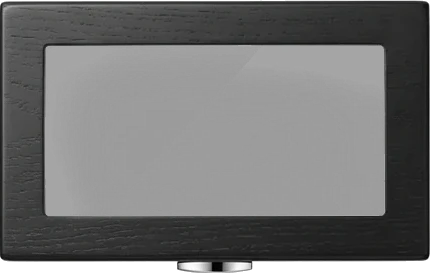
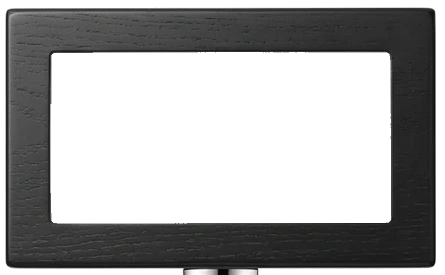
Caja de relojes: fotos nuevas (cuerpo, tapa con vidrio transparente, relojes en reposo y de frente) y animacion fija con el scroll

diff --git a/css/catalogo/estuche.css b/css/catalogo/estuche.css
@@ -1,89 +1,91 @@
   /* === CAJA DE RELOJES (debajo del carrusel) ===
-     La seccion queda fija (sticky) mientras se hace scroll; js/catalogo/estuche.js calcula el avance y pone:
-       --i  aparicion de la caja (0-1)      --l  apertura de la tapa (0-1)
-       --w0 --w1 --w2  aparicion de cada reloj (0-1)
-     Capas dentro de .cj-caja (mismo tamano que la foto del cuerpo, 805x427):
-       1 cuerpo · 2 sombra de la tapa · 3 relojes · 4 pared frontal · 5 tapa (2 caras) · 6 etiqueta
-     Para afinar a ojo, cambia estas variables: */
+     La seccion queda fija (sticky) mientras se hace scroll; js/catalogo/estuche.js pone en #estuche:
+       --l  apertura de la tapa (0-1)    --w1 --w2 --w3  aparicion de cada reloj en reposo (0-1)    --y  entrada (px)
+     Capas dentro de .cj-caja (mismo tamano que la foto del cuerpo, 1340x860):
+       1 cuerpo (cojines vacios) · 2 relojes en reposo · 3 pared frontal · 5 tapa · 6 reloj levantado · 7 zonas tactiles
+     Variables para afinar a ojo: */
   #estuche{
-    --lid-closed-angle:61deg;   /* tapa cerrada: acostada sobre la caja, con la misma perspectiva de la foto */
-    --lid-open-angle:166deg;    /* tapa abierta: ~105 grados desde cerrada, inclinada hacia atras */
-    --persp:630cqw;             /* distancia de la camara (en anchos de la caja) */
-    --watch-tilt:58deg;         /* relojes acostados sobre los cojines */
-    --watch-hover-tilt:18deg;   /* al levantarlo se inclina hacia quien mira */
-    --watch-lift:-16%;          /* cuanto sube al levantarlo (de su propio alto) */
-    --watch-size:22%;           /* ancho del cojin (zona que se toca) */
-    --watch-img:255%;           /* tamano de la foto del reloj respecto al cojin */
-    --r0-x:21.4%; --r0-y:40.5%; /* centro de cada reloj sobre su cojin */
-    --r1-x:49.9%; --r1-y:40.5%;
-    --r2-x:79.4%; --r2-y:40.5%;
-    --largo:190vh;              /* recorrido de scroll mientras la caja queda fija */
-    --i:0; --l:0; --w0:0; --w1:0; --w2:0;
-    position:relative;height:var(--largo);background:#fff;
+    --lid-closed-angle:44deg;   /* tapa cerrada: acostada sobre la caja (camara a ~30 grados) */
+    --lid-open-angle:150deg;    /* tapa abierta: pasa la vertical y se inclina un poco hacia atras */
+    --persp:700cqw;             /* distancia de la camara, en anchos de la caja (perspective) */
+    --watch-tilt:55deg;         /* el reloj levantado parte acostado... */
+    --watch-lift:-15%;          /* ...y sube esto (de su propio alto) mientras gira hacia quien mira */
+    --watch-h:50%;              /* alto del reloj levantado (del alto de la caja) */
+    --w1-x:20%;   --w1-y:42%; --w1-scale:1;      /* izquierda */
+    --w2-x:50%;   --w2-y:39%; --w2-scale:1.12;   /* centro */
+    --w3-x:80%;   --w3-y:45%; --w3-scale:.92;    /* derecha */
+    --l:0; --w1:0; --w2:0; --w3:0; --y:0px;
+    position:relative;background:#fff;
+    height:calc(100vh + 210vh);   /* 180vh de animacion + 30vh con la caja abierta y quieta */
   }
   body.vista-catalogo #estuche{display:none;}
-  .cj-fijo{position:sticky;top:var(--header-h,90px);height:calc(100vh - var(--header-h,90px));height:calc(100svh - var(--header-h,90px));display:flex;flex-direction:column;align-items:center;justify-content:center;padding:0 16px;overflow:hidden;}
-  .cj-titulo{font-family:var(--font-titulo);font-size:var(--fs-titulo);font-weight:800;letter-spacing:.01em;line-height:1.1;text-transform:uppercase;color:var(--black);text-align:center;margin-bottom:clamp(10px,2.2vh,26px);}
+  .cj-fijo{position:sticky;top:var(--header-h,90px);height:calc(100vh - var(--header-h,90px));height:calc(100svh - var(--header-h,90px));display:flex;flex-direction:column;align-items:center;justify-content:center;padding:0 16px;}
+  .cj-titulo{font-family:var(--font-titulo);font-size:var(--fs-titulo);font-weight:800;letter-spacing:.01em;line-height:1.1;text-transform:uppercase;color:var(--black);text-align:center;margin-bottom:clamp(6px,1.5vh,18px);}
   @media (min-width:821px){ .cj-titulo{font-size:clamp(22px,1.9vw,30px);} }
 
-  /* el marco reserva arriba el espacio de la tapa abierta (asi no hay saltos de diseno) */
-  .cj-marco{width:min(100%,700px,calc((100svh - var(--header-h,90px) - 100px) * .86));container-type:inline-size;
-    opacity:var(--i);transform:scale(calc((.94 + .06 * var(--i)) * (.975 + .025 * var(--l))));}
-  .cj-marco::before{content:'';display:block;padding-top:58%;}
-  .cj-caja{position:relative;aspect-ratio:805/427;perspective:var(--persp);perspective-origin:50% 30%;}
-  .cj-caja::after{content:'';position:absolute;left:3%;right:3%;bottom:-5%;height:10%;z-index:0;background:radial-gradient(ellipse at center,rgba(0,0,0,.30) 0%,rgba(0,0,0,0) 70%);}
-  .cj-cuerpo,.cj-frente{position:absolute;inset:0;width:100%;height:100%;display:block;user-select:none;-webkit-user-drag:none;pointer-events:none;}
+  /* el tamano se calcula con la tapa ABIERTA (el ::before reserva su alto), asi nada se corta y no hay saltos */
+  .cj-marco{width:min(100%,760px,calc((100svh - var(--header-h,90px) - 90px) * .86));container-type:inline-size;transform:translateY(var(--y));}
+  .cj-marco::before{content:'';display:block;padding-top:52%;}
+  .cj-caja{position:relative;aspect-ratio:1340/860;perspective:var(--persp);perspective-origin:50% 35%;}
+  .cj-caja img{display:block;user-select:none;-webkit-user-drag:none;}
+  .cj-cuerpo,.cj-frente{position:absolute;inset:0;width:100%;height:100%;pointer-events:none;}
   .cj-cuerpo{z-index:1;}
-  .cj-sombra{position:absolute;z-index:2;left:6%;right:6%;top:5%;height:50%;background:#000;opacity:calc((1 - var(--l)) * .55);pointer-events:none;}
-  .cj-relojes{position:absolute;inset:0;z-index:3;transform-style:preserve-3d;}
-  .cj-frente{z-index:4;}
+  .cj-sombra{position:absolute;z-index:2;left:4%;right:4%;top:9%;height:62%;background:radial-gradient(ellipse at 50% 40%,rgba(0,0,0,.65),rgba(0,0,0,.4));opacity:calc((1 - var(--l)) * .8);pointer-events:none;}
+  /* 2: reloj en reposo (recorte del compartimento con borde difuminado) */
+  .cj-reposo{position:absolute;z-index:2;pointer-events:none;opacity:var(--w);transform:translateY(calc((1 - var(--w)) * 4%));}
+  .cj-reposo[data-i="1"]{--w:var(--w1);left:4.179%;top:10%;width:30.597%;height:59.767%;}
+  .cj-reposo[data-i="2"]{--w:var(--w2);left:34.776%;top:10%;width:28.657%;height:59.767%;}
+  .cj-reposo[data-i="3"]{--w:var(--w3);left:63.433%;top:10%;width:28.507%;height:59.767%;}
+  #estuche.abierta .cj-reposo{transition:opacity .35s var(--ease),filter .35s var(--ease);}
+  .cj-caja .cj-reposo.fuera{opacity:0;}
+  .cj-frente{z-index:3;}
 
-  /* tapa: dos caras espalda con espalda; gira sobre la linea de las bisagras (borde trasero) */
-  .cj-tapa{position:absolute;z-index:5;left:5.2%;width:91.6%;top:4.2%;aspect-ratio:431/261;pointer-events:none;transform-origin:50% 0;transform-style:preserve-3d;
+  /* 5: tapa. Un solo elemento 3D con dos caras espalda con espalda; gira sobre la linea de las bisagras */
+  .cj-tapa{position:absolute;z-index:5;left:2.76%;width:94.5%;top:8.84%;aspect-ratio:430/260;pointer-events:none;transform-origin:50% 0;transform-style:preserve-3d;
     transform:rotateX(calc(var(--lid-closed-angle) + (var(--lid-open-angle) - var(--lid-closed-angle)) * var(--l)));}
-  .cj-cara{position:absolute;left:0;width:100%;height:auto;display:block;backface-visibility:hidden;-webkit-backface-visibility:hidden;user-select:none;-webkit-user-drag:none;}
-  .cj-cara.ext{top:0;}
-  .cj-cara.int{top:-4.21%;transform:rotateX(180deg) translateZ(1px);}
+  .cj-cara{position:absolute;inset:0;backface-visibility:hidden;-webkit-backface-visibility:hidden;}
+  .cj-cara img{position:absolute;max-width:none;height:auto;}
+  .cj-cara.ext img{left:-1.163%;top:-3.077%;width:103.488%;}
+  .cj-cara.int{transform:rotateX(180deg);}
+  .cj-cara.int img{left:-.696%;top:-3.053%;width:100.928%;}
+  /* brillo diagonal muy suave sobre el vidrio (el vidrio de la imagen es transparente) */
+  .cj-vidrio{position:absolute;pointer-events:none;background:linear-gradient(135deg,rgba(255,255,255,.12),rgba(255,255,255,0) 45%);}
+  .cj-cara.ext .cj-vidrio{left:10.7%;right:10.5%;top:16.9%;bottom:17.7%;}
+  .cj-cara.int .cj-vidrio{left:14.4%;right:14.4%;top:22.1%;bottom:20.6%;}
 
-  /* relojes: acostados en su cojin; aparecen con --wN y se levantan al pasar el cursor o tocarlos */
-  .cj-reloj{--w:var(--w0);--t:var(--watch-tilt);--sube:calc((1 - var(--w)) * 10%);--s:1;
-    position:absolute;left:var(--x);top:var(--y);width:var(--watch-size);aspect-ratio:1/1.15;padding:0;margin:0;border:0;background:none;cursor:pointer;-webkit-tap-highlight-color:transparent;
-    opacity:var(--w);transform:translate(-50%,-50%) translateY(var(--sube)) rotateX(var(--t)) scale(var(--s));}
-  .cj-reloj[data-i="0"]{--w:var(--w0);--x:var(--r0-x);--y:var(--r0-y);}
-  .cj-reloj[data-i="1"]{--w:var(--w1);--x:var(--r1-x);--y:var(--r1-y);}
-  .cj-reloj[data-i="2"]{--w:var(--w2);--x:var(--r2-x);--y:var(--r2-y);}
-  .cj-reloj img{position:absolute;left:50%;top:50%;width:var(--watch-img);height:auto;aspect-ratio:1/1;transform:translate(-50%,-50%);pointer-events:none;user-select:none;-webkit-user-drag:none;
-    filter:drop-shadow(0 4px 3px rgba(0,0,0,.6));}
-  .cj-reloj.alzado,.cj-reloj:focus-visible{--sube:var(--watch-lift);--t:var(--watch-hover-tilt);--s:1.05;z-index:2;}
-  .cj-reloj.alzado img,.cj-reloj:focus-visible img{filter:drop-shadow(0 22px 16px rgba(0,0,0,.45));}
-  .cj-reloj:focus-visible{outline:none;}
-  .cj-reloj:focus-visible::after{content:'';position:absolute;left:8%;right:8%;bottom:-8%;height:2px;background:#fff;}
-  @media (hover:hover){
-    .cj-reloj:hover{--sube:var(--watch-lift);--t:var(--watch-hover-tilt);--s:1.05;z-index:2;}
-    .cj-reloj:hover img{filter:drop-shadow(0 22px 16px rgba(0,0,0,.45));}
-    .cj-relojes:has(.cj-reloj:hover) .cj-reloj:not(:hover) img{filter:drop-shadow(0 4px 3px rgba(0,0,0,.6)) brightness(.6);}
-  }
-  .cj-relojes:has(.cj-reloj.alzado) .cj-reloj:not(.alzado):not(:hover) img{filter:drop-shadow(0 4px 3px rgba(0,0,0,.6)) brightness(.6);}
-  /* las transiciones del levantar solo cuando la caja ya esta abierta (durante el scroll se mueve cuadro a cuadro) */
-  #estuche.abierta .cj-reloj{transition:transform .45s cubic-bezier(.34,1.45,.64,1);}
-  #estuche.abierta .cj-reloj img{transition:filter .4s var(--ease);}
-  #estuche.animando .cj-tapa,#estuche.animando .cj-reloj,#estuche.animando .cj-marco{will-change:transform,opacity;}
+  /* 6: reloj levantado (foto de frente sin fondo). Parte acostado e invisible; al activarse sube y gira hacia quien mira */
+  .cj-alzado{position:absolute;z-index:6;left:var(--x);top:var(--yy);height:calc(var(--watch-h) * var(--sc));width:auto;max-width:none;pointer-events:none;opacity:0;
+    transform:translate(-50%,-50%) rotateX(var(--watch-tilt)) scale(.92);filter:drop-shadow(0 18px 18px rgba(0,0,0,.45));
+    transition:opacity .3s var(--ease),transform .45s cubic-bezier(.34,1.4,.64,1);}
+  .cj-alzado[data-i="1"]{--x:var(--w1-x);--yy:var(--w1-y);--sc:var(--w1-scale);}
+  .cj-alzado[data-i="2"]{--x:var(--w2-x);--yy:var(--w2-y);--sc:var(--w2-scale);}
+  .cj-alzado[data-i="3"]{--x:var(--w3-x);--yy:var(--w3-y);--sc:var(--w3-scale);}
+  .cj-alzado.on{opacity:1;transform:translate(-50%,-50%) translateY(var(--watch-lift)) rotateX(0deg) scale(1.05);}
+  /* los otros relojes se oscurecen un poco */
+  .cj-caja.activa .cj-reposo:not(.fuera){filter:brightness(.6);}
 
-  .cj-etiqueta{position:absolute;z-index:6;left:var(--ex,50%);top:-11%;transform:translate(-50%,6px);opacity:0;pointer-events:none;white-space:nowrap;text-align:center;
-    background:#fff;padding:5px 12px;border-radius:999px;box-shadow:0 4px 14px rgba(0,0,0,.12);transition:opacity .25s var(--ease),transform .25s var(--ease);}
+  /* 7: zonas que se tocan (una por compartimento), por encima de todo; solo activas con la caja abierta */
+  .cj-zona{position:absolute;z-index:7;top:12%;height:60%;padding:0;margin:0;border:0;background:none;cursor:pointer;-webkit-tap-highlight-color:transparent;pointer-events:none;border-radius:8px;}
+  #estuche.abierta .cj-zona{pointer-events:auto;}
+  .cj-zona[data-i="1"]{left:5%;width:29%;}
+  .cj-zona[data-i="2"]{left:35.5%;width:27.5%;}
+  .cj-zona[data-i="3"]{left:64%;width:27%;}
+  .cj-zona:focus-visible{outline:2px solid #fff;outline-offset:-6px;}
+
+  .cj-etiqueta{position:absolute;z-index:8;left:var(--ex,50%);top:-4%;transform:translate(-50%,6px);opacity:0;pointer-events:none;white-space:nowrap;text-align:center;
+    background:#fff;padding:5px 12px;border-radius:999px;box-shadow:0 4px 14px rgba(0,0,0,.14);transition:opacity .25s var(--ease),transform .25s var(--ease);}
   .cj-etiqueta.on{opacity:1;transform:translate(-50%,0);}
   .cj-etiqueta .n{display:block;font-size:var(--fs-etiqueta);font-weight:600;letter-spacing:.01em;text-transform:uppercase;color:var(--black);line-height:1.3;}
   .cj-etiqueta .d{display:block;font-size:11px;color:var(--gris-texto);line-height:1.3;}
 
-  @media (max-width:820px){ #estuche{--largo:160vh;} }
-  @media (max-width:560px){ #estuche{--largo:150vh;} .cj-etiqueta{top:-13%;} }
+  #estuche.animando .cj-tapa,#estuche.animando .cj-reposo,#estuche.animando .cj-marco{will-change:transform,opacity;}
+  @media (max-width:820px){ #estuche{height:calc(100vh + 180vh);} }
+  @media (max-width:560px){ #estuche{height:calc(100vh + 160vh);} .cj-etiqueta{top:-7%;} }
 
   /* sin animacion (movimiento reducido, sin 3D o si falla una imagen): caja abierta y quieta */
   #estuche.estatica{height:auto;padding:clamp(34px,4vw,64px) 0;}
   #estuche.estatica .cj-fijo{position:static;height:auto;}
-  #estuche.estatica .cj-marco{width:min(100%,700px);}
+  #estuche.estatica .cj-marco{width:min(100%,760px);}
   #estuche.sin3d .cj-tapa,#estuche.sin3d .cj-sombra{display:none;}
-  #estuche.sin3d .cj-reloj{--t:0deg;}
-  @media (prefers-reduced-motion:reduce){ #estuche .cj-reloj,#estuche .cj-reloj img{transition-duration:.01s !important;} }
-  /* ya abierta (pasado el canto), la tapa queda detras de la caja para que los relojes levantados pasen por delante */
-  .cj-caja.tapa-atras .cj-tapa{z-index:0;}
+  #estuche.sin3d .cj-marco::before{padding-top:0;}
+  @media (prefers-reduced-motion:reduce){ #estuche .cj-alzado,#estuche .cj-reposo{transition-duration:.15s;} }

diff --git a/js/catalogo/estuche.js b/js/catalogo/estuche.js
@@ -1,75 +1,94 @@
 // =================== CAJA DE RELOJES (debajo del carrusel) ===================
 // Una caja de madera cerrada: al hacer scroll la seccion queda fija, la tapa gira en 3D sobre las bisagras
-// y aparecen los mismos relojes del carrusel (DEST_LOCAL) acostados en sus cojines.
-// Pasar el cursor (o tocar) un reloj lo levanta un poco y lo inclina hacia quien mira.
-// El avance va en variables CSS de #estuche (ver css/catalogo/estuche.css): --i, --l, --w0..--w2.
-import { _destEsc } from './ui.js';
-import { DEST_LOCAL } from './destacados.js';
+// y aparecen 3 relojes en reposo sobre sus cojines. Al pasar el cursor (o tocar) un reloj, su foto de frente
+// sube y gira hacia quien mira; con el reloj levantado, un segundo toque abre su enlace (si tiene).
+// El avance va en variables CSS de #estuche (ver css/catalogo/estuche.css): --l, --w1..--w3, --y.
+
+// Relojes de la caja, de izquierda a derecha. Edita aqui nombre, precio y enlace.
+// "enlace": direccion a la que lleva un segundo toque (vacio = solo se levanta/baja).
+var RELOJES_CAJA = [
+  { nombre: 'TechnoMarine', detalle: 'Cronógrafo bicolor, esfera azul', precio: '', enlace: '',
+    reposo: 'assets/watchbox/reposo-izq.webp', frontal: 'assets/watchbox/frontal-izq.webp' },
+  { nombre: 'Invicta', detalle: 'Cronógrafo dorado', precio: '', enlace: '',
+    reposo: 'assets/watchbox/reposo-cen.webp', frontal: 'assets/watchbox/frontal-cen.webp' },
+  { nombre: 'Invicta Speedway', detalle: 'Bicolor oro rosa, esfera negra', precio: '', enlace: '',
+    reposo: 'assets/watchbox/reposo-der.webp', frontal: 'assets/watchbox/frontal-der.webp' }
+];
 
 var sec = document.getElementById('estuche');
 var caja = document.getElementById('cj-caja');
-var box = document.getElementById('cj-relojes');
 var etiqueta = document.getElementById('cj-etiqueta');
-var relojes = DEST_LOCAL.filter(function(r){ return r.fotos && r.fotos[0]; }).slice(0, 3);
+var activo = 0;     // reloj levantado (1-3) o 0
 
 function lim(v){ return v < 0 ? 0 : v > 1 ? 1 : v; }
 function salida(t){ return 1 - Math.pow(1 - t, 3); }   // ease-out
+function esc(s){ return String(s == null ? '' : s).replace(/[&<>"']/g, function(c){ return { '&':'&amp;', '<':'&lt;', '>':'&gt;', '"':'&quot;', "'":'&#39;' }[c]; }); }
 
 // ---------- relojes ----------
-function renderRelojes(){
-  box.innerHTML = relojes.map(function(r, i){
-    var nombre = r.nombre + (r.detalle ? ' ' + r.detalle : '');
-    return '<button type="button" class="cj-reloj" data-i="' + i + '" aria-pressed="false" aria-label="' + _destEsc(nombre) + '">' +
-      '<img src="' + _destEsc(r.fotos[0]) + '" alt="" loading="lazy" decoding="async" draggable="false"></button>';
-  }).join('');
+function render(){
+  var h = '';
+  RELOJES_CAJA.forEach(function(r, k){
+    var i = k + 1;
+    h += '<img class="cj-reposo" data-i="' + i + '" src="' + esc(r.reposo) + '" alt="" loading="lazy" decoding="async" draggable="false">';
+    h += '<img class="cj-alzado" data-i="' + i + '" src="' + esc(r.frontal) + '" alt="" loading="lazy" decoding="async" draggable="false">';
+    h += '<button type="button" class="cj-zona" data-i="' + i + '" aria-pressed="false" aria-label="' + esc(r.nombre + ' ' + r.detalle) + '"></button>';
+  });
+  caja.insertAdjacentHTML('beforeend', h);
 }
-function mostrarEtiqueta(i){
-  var r = relojes[i];
+function levantar(i){
+  activo = i || 0;
+  caja.classList.toggle('activa', !!activo);
+  caja.querySelectorAll('[data-i]').forEach(function(el){
+    var on = +el.dataset.i === activo;
+    if(el.classList.contains('cj-reposo')) el.classList.toggle('fuera', on);
+    if(el.classList.contains('cj-alzado')) el.classList.toggle('on', on);
+    if(el.classList.contains('cj-zona')) el.setAttribute('aria-pressed', on ? 'true' : 'false');
+  });
+  var r = RELOJES_CAJA[activo - 1];
   if(!r){ etiqueta.classList.remove('on'); return; }
-  etiqueta.innerHTML = '<span class="n">' + _destEsc(r.nombre) + '</span>' +
-    (r.detalle ? '<span class="d">' + _destEsc(r.detalle) + (r.precio ? ' · ' + _destEsc(r.precio) : '') + '</span>' : '');
-  etiqueta.style.setProperty('--ex', getComputedStyle(sec).getPropertyValue('--r' + i + '-x').trim() || '50%');
+  etiqueta.innerHTML = '<span class="n">' + esc(r.nombre) + '</span><span class="d">' + esc(r.detalle) + (r.precio ? ' · ' + esc(r.precio) : '') + '</span>';
+  etiqueta.style.setProperty('--ex', getComputedStyle(sec).getPropertyValue('--w' + activo + '-x').trim() || '50%');
   etiqueta.classList.add('on');
 }
-function alzar(btn){
-  box.querySelectorAll('.cj-reloj').forEach(function(b){
-    var on = b === btn; b.classList.toggle('alzado', on); b.setAttribute('aria-pressed', on ? 'true' : 'false');
-  });
-  mostrarEtiqueta(btn ? +btn.dataset.i : -1);
+function abrirEnlace(r){
+  if(!r || !r.enlace) return false;
+  if(/^https?:\/\//.test(r.enlace) && r.enlace.indexOf(location.origin) !== 0) window.open(r.enlace, '_blank', 'noopener');
+  else location.href = r.enlace;
+  return true;
 }
-function alzado(){ return box.querySelector('.cj-reloj.alzado'); }
 function eventos(){
-  // tocar / Enter / Espacio: levanta ese reloj; otra vez lo baja (solo uno a la vez)
-  box.addEventListener('click', function(e){
-    var b = e.target.closest('.cj-reloj'); if(!b) return;
-    alzar(b.classList.contains('alzado') ? null : b);
+  var conMouse = false;
+  caja.addEventListener('pointerdown', function(e){ conMouse = e.pointerType === 'mouse'; });
+  // tocar (o Enter/Espacio): levanta; tocar el levantado abre su enlace o lo baja
+  caja.addEventListener('click', function(e){
+    var z = e.target.closest('.cj-zona'); if(!z) return;
+    var i = +z.dataset.i;
+    if(activo === i){ if(!abrirEnlace(RELOJES_CAJA[i - 1]) && !conMouse) levantar(0); }
+    else levantar(i);
   });
+  // con mouse: levantar al pasar por encima y bajar al salir
+  caja.addEventListener('pointerover', function(e){
+    var z = e.target.closest('.cj-zona'); if(z && e.pointerType === 'mouse') levantar(+z.dataset.i);
+  });
+  caja.addEventListener('pointerout', function(e){
+    if(e.pointerType !== 'mouse') return;
+    var a = e.relatedTarget && e.relatedTarget.closest ? e.relatedTarget.closest('.cj-zona') : null;
+    if(!a) levantar(0);
+  });
+  caja.addEventListener('focusin', function(e){ var z = e.target.closest('.cj-zona'); if(z && z.matches(':focus-visible')) levantar(+z.dataset.i); });
+  caja.addEventListener('focusout', function(){ if(!caja.contains(document.activeElement)) levantar(0); });
   // tocar fuera de los relojes los baja
-  document.addEventListener('click', function(e){
-    if(alzado() && !e.target.closest('.cj-reloj')) alzar(null);
-  });
-  // con mouse, la etiqueta sigue al reloj bajo el cursor
-  box.addEventListener('pointerover', function(e){
-    var b = e.target.closest('.cj-reloj'); if(b && e.pointerType === 'mouse') mostrarEtiqueta(+b.dataset.i);
-  });
-  box.addEventListener('pointerout', function(e){
-    if(e.pointerType !== 'mouse' || (e.relatedTarget && e.relatedTarget.closest && e.relatedTarget.closest('.cj-reloj'))) return;
-    var a = alzado(); mostrarEtiqueta(a ? +a.dataset.i : -1);
-  });
-  box.addEventListener('focusin', function(e){ var b = e.target.closest('.cj-reloj'); if(b) mostrarEtiqueta(+b.dataset.i); });
-  box.addEventListener('focusout', function(){ var a = alzado(); mostrarEtiqueta(a ? +a.dataset.i : -1); });
+  document.addEventListener('click', function(e){ if(activo && !e.target.closest('.cj-zona')) levantar(0); });
 }
 
 // ---------- animacion segun el scroll ----------
-// 0-.15 aparece la caja cerrada · .15-.60 se abre la tapa · .60-.85 salen los relojes · .85-1 quieta
+// 0-.15 entra la caja cerrada · .15-.60 se abre la tapa · .60-.85 aparecen los relojes · .85-1 quieta
 function aplicar(p){
-  var l = salida(lim((p - .15) / .45));
-  sec.style.setProperty('--i', (.35 + .65 * lim(p / .15)).toFixed(3));
-  sec.style.setProperty('--l', l.toFixed(4));
-  for(var k = 0; k < 3; k++) sec.style.setProperty('--w' + k, salida(lim((p - .60 - k * .05) / .15)).toFixed(3));
-  caja.classList.toggle('tapa-atras', l > .5);
+  sec.style.setProperty('--y', ((1 - salida(lim(p / .15))) * 28).toFixed(1) + 'px');
+  sec.style.setProperty('--l', salida(lim((p - .15) / .45)).toFixed(4));
+  for(var k = 0; k < 3; k++) sec.style.setProperty('--w' + (k + 1), salida(lim((p - .60 - k * .06) / .13)).toFixed(3));
   sec.classList.toggle('abierta', p >= .85);
-  if(p < .6 && alzado()) alzar(null);
+  if(p < .85 && activo) levantar(0);
 }
 function estatica(sin3d){
   sec.classList.add('estatica');
@@ -79,15 +98,17 @@ function estatica(sin3d){
 function scrollVivo(){
   var meta = 0, actual = 0, corriendo = false;
   function medir(){
-    var r = sec.getBoundingClientRect(), recorrido = r.height - (window.innerHeight || 800);
+    var vh = window.innerHeight || 800, r = sec.getBoundingClientRect();
+    var recorrido = r.height - vh - vh * .30;          // los ultimos 30vh la caja queda abierta y quieta
     meta = recorrido > 0 ? lim(-r.top / recorrido) : (r.top < 0 ? 1 : 0);
   }
   function paso(){
+    if(sec.classList.contains('estatica')){ corriendo = false; sec.classList.remove('animando'); return; }
     medir();
-    actual += (meta - actual) * .16;          // suavizado (lerp)
-    if(Math.abs(meta - actual) < .001) actual = meta;
+    actual += (meta - actual) * .14;                   // suavizado (lerp)
+    if(Math.abs(meta - actual) < .0008) actual = meta;
     aplicar(actual);
-    if(actual !== meta){ requestAnimationFrame(paso); }
+    if(actual !== meta) requestAnimationFrame(paso);
     else { corriendo = false; sec.classList.remove('animando'); }
   }
   function despertar(){
@@ -101,17 +122,14 @@ function scrollVivo(){
 }
 
 (function(){
-  if(!sec || !caja || !box) return;
-  if(!relojes.length){ sec.style.display = 'none'; return; }
-  renderRelojes(); eventos();
+  if(!sec || !caja) return;
+  render(); eventos();
   var sin3d = !(window.CSS && CSS.supports && CSS.supports('transform-style', 'preserve-3d'));
   var reducido = window.matchMedia && matchMedia('(prefers-reduced-motion: reduce)').matches;
-  // si no carga una pieza de la caja, se muestra abierta y quieta
-  sec.querySelectorAll('.cj-cuerpo, .cj-frente, .cj-cara').forEach(function(img){
-    img.addEventListener('error', function(){ estatica(true); });
-  });
+  // si una pieza no carga, la caja se muestra abierta y quieta
+  sec.querySelectorAll('img').forEach(function(img){ img.addEventListener('error', function(){ estatica(true); }); });
   if(sin3d || reducido) estatica(sin3d);
   else scrollVivo();
 })();
 
-export { alzar };
+export { RELOJES_CAJA };

diff --git a/catalogo.html b/catalogo.html
@@ -209,19 +209,18 @@ if(location.hostname==='aphillips7.github.io') location.replace('https://aphilli
   <div class="regla-seccion" aria-hidden="true"></div>
 </section>
 
-<!-- CAJA DE RELOJES: la tapa se abre con el scroll y aparecen los relojes del carrusel (js/catalogo/estuche.js) -->
+<!-- CAJA DE RELOJES: la tapa se abre con el scroll y aparecen 3 relojes (js/catalogo/estuche.js) -->
 <section id="estuche" aria-label="Caja de relojes">
   <div class="cj-fijo">
     <h2 class="cj-titulo">Cada reloj, en su lugar</h2>
-    <div class="cj-marco" id="cj-marco">
+    <div class="cj-marco">
       <div class="cj-caja" id="cj-caja">
-        <img class="cj-cuerpo" src="assets/watchbox/caja-cuerpo.webp" width="805" height="427" alt="" loading="lazy" decoding="async">
+        <img class="cj-cuerpo" src="assets/watchbox/cuerpo.webp" width="1340" height="860" alt="" loading="lazy" decoding="async">
         <div class="cj-sombra" aria-hidden="true"></div>
-        <div class="cj-relojes" id="cj-relojes"></div>
-        <img class="cj-frente" src="assets/watchbox/caja-frente.webp" width="805" height="427" alt="" loading="lazy" decoding="async" aria-hidden="true">
+        <img class="cj-frente" src="assets/watchbox/frente.webp" width="1340" height="860" alt="" loading="lazy" decoding="async">
         <div class="cj-tapa" aria-hidden="true">
-          <img class="cj-cara ext" src="assets/watchbox/tapa-exterior.webp" width="431" height="273" alt="" loading="lazy" decoding="async">
-          <img class="cj-cara int" src="assets/watchbox/tapa-interior.webp" width="431" height="288" alt="" loading="lazy" decoding="async">
+          <div class="cj-cara ext"><img src="assets/watchbox/tapa-exterior.webp" width="445" height="275" alt="" loading="lazy" decoding="async"><i class="cj-vidrio"></i></div>
+          <div class="cj-cara int"><img src="assets/watchbox/tapa-interior.webp" width="435" height="280" alt="" loading="lazy" decoding="async"><i class="cj-vidrio"></i></div>
         </div>
         <div class="cj-etiqueta" id="cj-etiqueta" aria-live="polite"></div>
       </div>

diff --git a/sw.js b/sw.js
@@ -1,7 +1,7 @@
 // Service Worker de Aphillips Store — version del cache
 // Cada vez que publiques cambios en HTML, CSS o JS, sube este numero
 // (ej: 'aphillips-v3'). Al activarse la version nueva se borra el cache viejo.
-const CACHE_NAME = 'aphillips-v30';
+const CACHE_NAME = 'aphillips-v31';
 
 // Solo el "cascaron" de la app: nunca datos, nunca Firebase, nunca fuentes externas.
 // Si agregas o renombras un archivo en /css o /js, agregalo tambien aqui.

diff --git a/ARCHITECTURE.md b/ARCHITECTURE.md
@@ -96,7 +96,7 @@ js/products.js        reglas de producto compartidas (ver "Reglas de negocio")
 | `whatsapp.js` | Numero, boton flotante, confirmaciones, cotizar |
 | `metricas.js` | Junta vistas/aperturas/clics y los envia a Cloudflare (`POST /metricas`) cada 20 s y al salir |
 | `destacados.js` | Carrusel de destacados (modelos fijos en `DEST_LOCAL`, imagenes en `img/`) |
-| `estuche.js` | Caja de relojes debajo del carrusel: queda fija con el scroll, la tapa se abre en 3D y muestra los relojes de `DEST_LOCAL` (piezas en `assets/watchbox/`, ajustes en variables de `css/catalogo/estuche.css`) |
+| `estuche.js` | Caja de madera debajo del carrusel: queda fija con el scroll, la tapa gira en 3D y aparecen 3 relojes propios (`RELOJES_CAJA`: nombre, precio, enlace); piezas en `assets/watchbox/`, ajustes en variables de `css/catalogo/estuche.css` |
 | `buscador.js` | Panel de busqueda: resultados en vivo, "Ver todos"/Enter los pasa a la grilla, sugerencias |
 | `cuenta.js` | "Mi cuenta": login con Google o con correo y contrasena (con verificacion de correo obligatoria; los correos de verificacion y de contrasena salen de noreply@aphillipsstore.com via el Worker y sus enlaces se abren en la tienda con ?modo=; Firebase Auth, el SDK se descarga solo al abrir el panel o si ya habia sesion), perfil y WhatsApp, avisos ("Avisame" en un reloj o una marca), compras y apartados, favoritos en la nube. Con la cuenta del dueno: ir al panel, metricas y opciones de desarrollador (estado del sistema, no contar mis visitas, forzar actualizacion, respaldo) |
 | `sesion.js` | Estado de la sesion del cliente (`sesion`, `saludo()` para los mensajes de WhatsApp, `tieneAviso`) sin dependencias |
